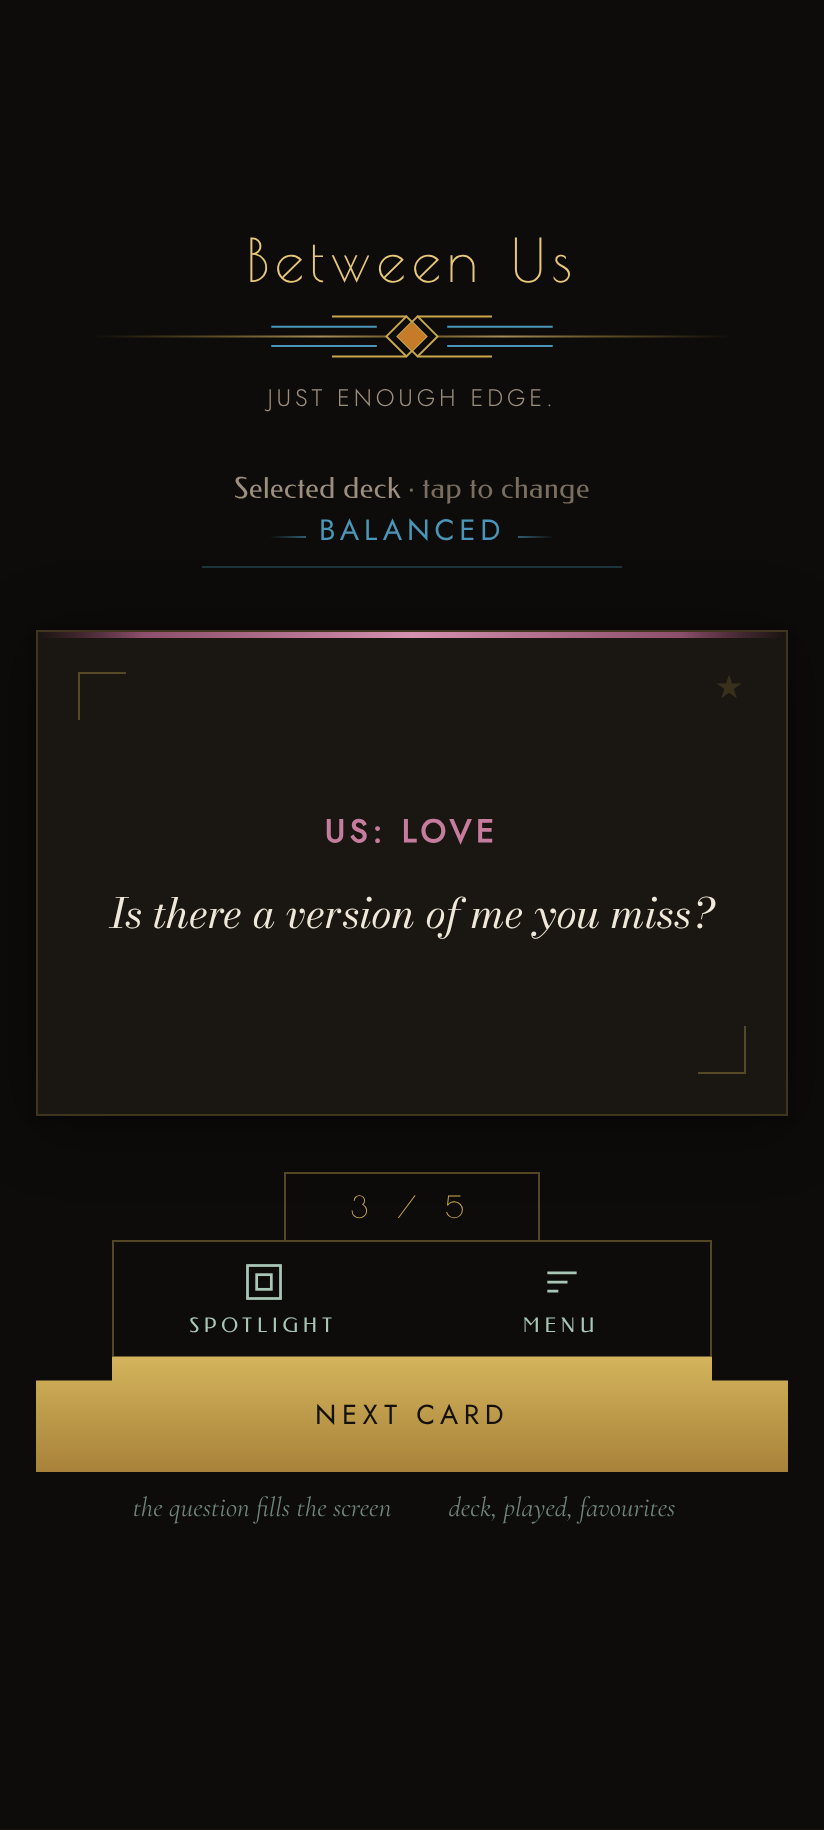
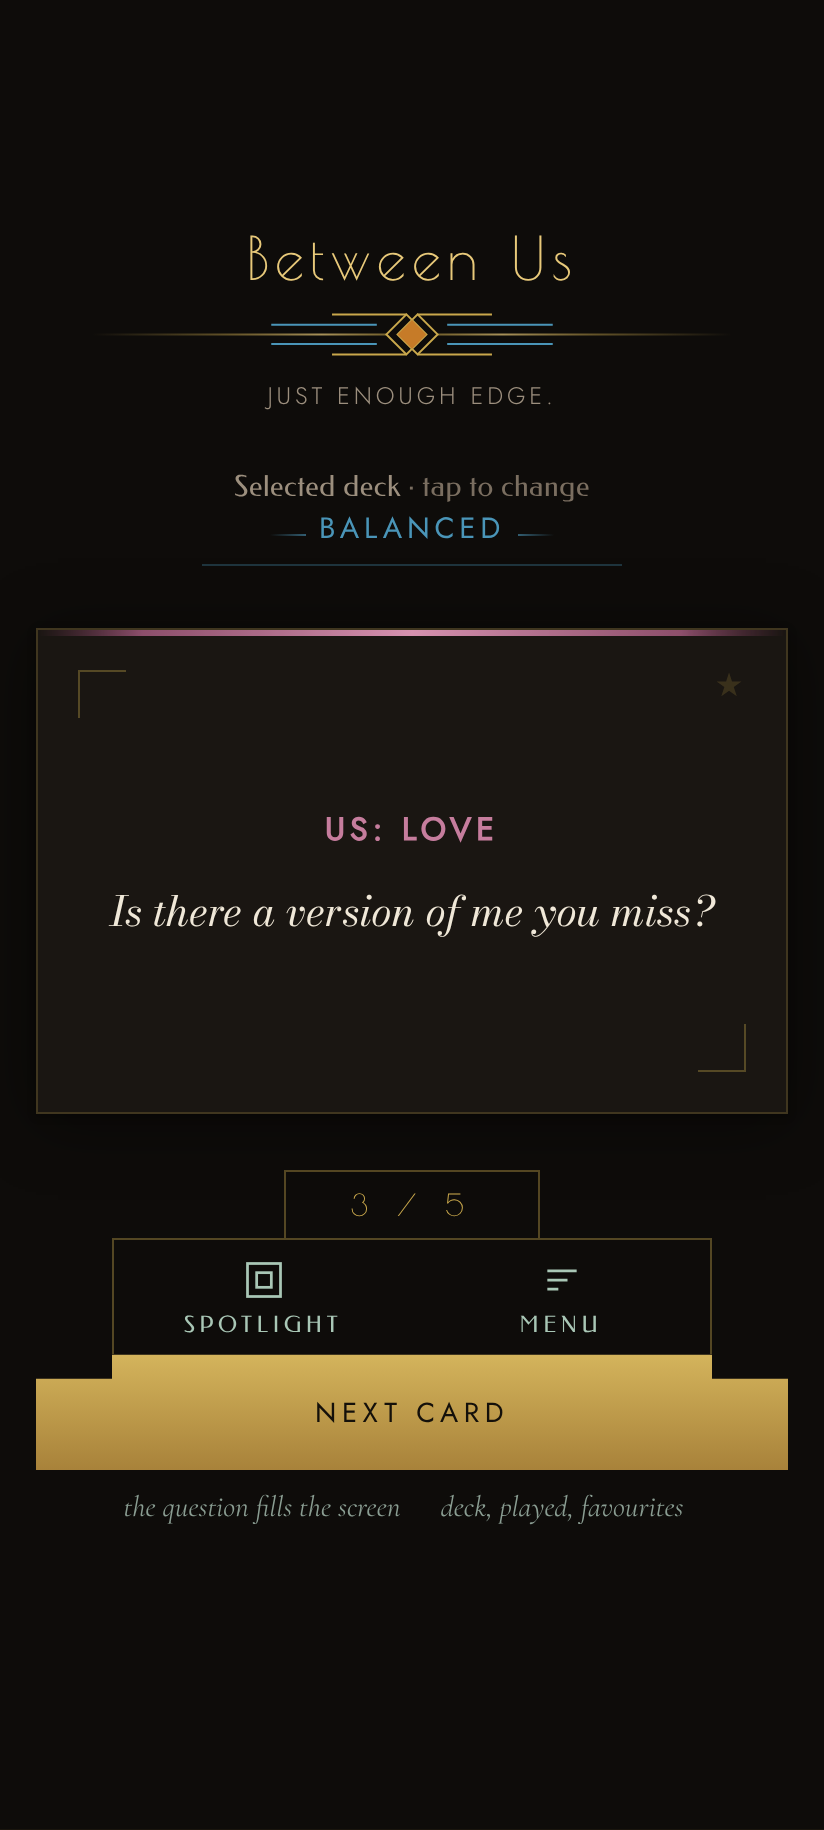
Keeper rule: always design with the design skills; round 6 polish and order (#113)
Claude-Session: https://claude.ai/code/session_01Jg2KKDJwWz1kYbkGce4qTK

diff --git a/.claude/keeper/agreements/2026-11-05-under-card-r6/index.html b/.claude/keeper/agreements/2026-11-05-under-card-r6/index.html
@@ -53,18 +53,18 @@ th{font:400 .72rem var(--caps);letter-spacing:.14em;text-transform:uppercase;col
 <h2>What each part does, per moment</h2>
 <div class="tbl"><table>
 <tr><th>Moment</th><th>Middle</th><th>Left</th><th>Right</th></tr>
-<tr><td>Start card</td><td>Draw, count 0 / 5</td><td>Ways to play: the one thing a first-timer needs before the first draw</td><td>Menu</td></tr>
-<tr><td>During a hand</td><td>Next card, count</td><td>Spotlight: shows the question to the table</td><td>Menu: the deck, played, favourites</td></tr>
-<tr><td>End of a hand</td><td>Turn the card, then hold for a new hand</td><td>Change: which questions come next</td><td>Save: keep this evening</td></tr>
+<tr><td>During a hand (most of the time)</td><td>Next Card, count</td><td>Spotlight: shows the question to the table</td><td>Menu: the deck, played, favourites</td></tr>
+<tr><td>Start card</td><td>Draw Card, count 0 / 5</td><td>Ways to play: the one thing a first-timer needs before the first draw</td><td>Menu</td></tr>
+<tr><td>End of a hand</td><td>Tap to flip card, then Hold to continue (the app's own words)</td><td>Change: which questions come next</td><td>Save: keep this evening</td></tr>
 </table></div>
 <p class="note">The same in all four, because the brief and your answers asked for it, not as a choice I'm making for you: there's no Back button (you said "remove it, might not miss it"; swiping back stays); Three and Twist are not in this area (where they go is a separate question below); the card stays a real card with nothing on it. Spotlight's own screen and the PC layout follow the design you choose. Tap a picture to open it full size.</p>
 
 <h2>Now</h2>
 <div class="strip">
-<figure><figcaption>Start card</figcaption><button class="fig" type="button"><img src="img/current-start.png" alt="Now, start card."></button></figure>
 <figure><figcaption>During a hand</figcaption><button class="fig" type="button"><img src="img/current-mid.png" alt="Now, during a hand."></button></figure>
-<figure><figcaption>End of a hand</figcaption><button class="fig" type="button"><img src="img/current-end.png" alt="Now, end of a hand."></button></figure>
 <figure><figcaption>First visit</figcaption><button class="fig" type="button"><img src="img/current-mid-hints.png" alt="Now, first visit."></button></figure>
+<figure><figcaption>Start card</figcaption><button class="fig" type="button"><img src="img/current-start.png" alt="Now, start card."></button></figure>
+<figure><figcaption>End of a hand</figcaption><button class="fig" type="button"><img src="img/current-end.png" alt="Now, end of a hand."></button></figure>
 </div>
 
 <h2>A · The mirror</h2>
@@ -76,10 +76,10 @@ th{font:400 .72rem var(--caps);letter-spacing:.14em;text-transform:uppercase;col
 <li>Left and right slots: at the ornament's two ends, where its lines come from.</li>
 </ul>
 <div class="strip">
-<figure><figcaption>Start card</figcaption><button class="fig" type="button"><img src="img/A-start.png" alt="A, the mirror, Start card."></button></figure>
 <figure><figcaption>During a hand</figcaption><button class="fig" type="button"><img src="img/A-mid.png" alt="A, the mirror, During a hand."></button></figure>
-<figure><figcaption>End of a hand</figcaption><button class="fig" type="button"><img src="img/A-end.png" alt="A, the mirror, End of a hand."></button></figure>
 <figure><figcaption>First visit</figcaption><button class="fig" type="button"><img src="img/A-mid-hints.png" alt="A, the mirror, First visit."></button></figure>
+<figure><figcaption>Start card</figcaption><button class="fig" type="button"><img src="img/A-start.png" alt="A, the mirror, Start card."></button></figure>
+<figure><figcaption>End of a hand</figcaption><button class="fig" type="button"><img src="img/A-end.png" alt="A, the mirror, End of a hand."></button></figure>
 </div>
 <p class="bad">The action is lettering, not a filled button. That's the most Art Deco choice, but the least obvious "tap here" for a first-timer. Its tap area has to be larger than it looks.</p>
 
@@ -92,10 +92,10 @@ th{font:400 .72rem var(--caps);letter-spacing:.14em;text-transform:uppercase;col
 <li>Left and right slots: outside the plate at its middle height, just the symbol and its word, with no frame of their own (no box around a single control).</li>
 </ul>
 <div class="strip">
-<figure><figcaption>Start card</figcaption><button class="fig" type="button"><img src="img/B-start.png" alt="B, the frame, Start card."></button></figure>
 <figure><figcaption>During a hand</figcaption><button class="fig" type="button"><img src="img/B-mid.png" alt="B, the frame, During a hand."></button></figure>
-<figure><figcaption>End of a hand</figcaption><button class="fig" type="button"><img src="img/B-end.png" alt="B, the frame, End of a hand."></button></figure>
 <figure><figcaption>First visit</figcaption><button class="fig" type="button"><img src="img/B-mid-hints.png" alt="B, the frame, First visit."></button></figure>
+<figure><figcaption>Start card</figcaption><button class="fig" type="button"><img src="img/B-start.png" alt="B, the frame, Start card."></button></figure>
+<figure><figcaption>End of a hand</figcaption><button class="fig" type="button"><img src="img/B-end.png" alt="B, the frame, End of a hand."></button></figure>
 </div>
 <p class="bad">The plate is the only framed object under the card, so it reads clearly as the button. But it's a box, and the start card above is also a framed box, so at the start of a hand the two frames echo each other strongly.</p>
 
@@ -107,10 +107,10 @@ th{font:400 .72rem var(--caps);letter-spacing:.14em;text-transform:uppercase;col
 <li>Bottom tier: the gold action, the one filled shape, with stepped shoulders where the middle tier meets it.</li>
 </ul>
 <div class="strip">
-<figure><figcaption>Start card</figcaption><button class="fig" type="button"><img src="img/C-start.png" alt="C, the steps, Start card."></button></figure>
 <figure><figcaption>During a hand</figcaption><button class="fig" type="button"><img src="img/C-mid.png" alt="C, the steps, During a hand."></button></figure>
-<figure><figcaption>End of a hand</figcaption><button class="fig" type="button"><img src="img/C-end.png" alt="C, the steps, End of a hand."></button></figure>
 <figure><figcaption>First visit</figcaption><button class="fig" type="button"><img src="img/C-mid-hints.png" alt="C, the steps, First visit."></button></figure>
+<figure><figcaption>Start card</figcaption><button class="fig" type="button"><img src="img/C-start.png" alt="C, the steps, Start card."></button></figure>
+<figure><figcaption>End of a hand</figcaption><button class="fig" type="button"><img src="img/C-end.png" alt="C, the steps, End of a hand."></button></figure>
 </div>
 <p class="bad">The heaviest of the four: the gold base keeps the weight the critique called too much, though its shape now belongs. The outlines of the tiers add more line than A or B.</p>
 
@@ -123,12 +123,24 @@ th{font:400 .72rem var(--caps);letter-spacing:.14em;text-transform:uppercase;col
 <li>End of a hand: Change and Save at the line's two ends.</li>
 </ul>
 <div class="strip">
-<figure><figcaption>Start card</figcaption><button class="fig" type="button"><img src="img/D-start.png" alt="D, turn it to show it, Start card."></button></figure>
 <figure><figcaption>During a hand</figcaption><button class="fig" type="button"><img src="img/D-mid.png" alt="D, turn it to show it, During a hand."></button></figure>
-<figure><figcaption>End of a hand</figcaption><button class="fig" type="button"><img src="img/D-end.png" alt="D, turn it to show it, End of a hand."></button></figure>
 <figure><figcaption>First visit</figcaption><button class="fig" type="button"><img src="img/D-mid-hints.png" alt="D, turn it to show it, First visit."></button></figure>
+<figure><figcaption>Start card</figcaption><button class="fig" type="button"><img src="img/D-start.png" alt="D, turn it to show it, Start card."></button></figure>
+<figure><figcaption>End of a hand</figcaption><button class="fig" type="button"><img src="img/D-end.png" alt="D, turn it to show it, End of a hand."></button></figure>
 </div>
 <p class="bad">Turning doesn't work on a phone lying flat on the table, or with screen rotation locked, and you use Spotlight on the table. It would need a second way in, which brings back a control. People also have to learn the turn; the first-visit hint carries it once.</p>
+
+
+<h2>Polish review (design skills)</h2>
+<p>Skills used this round: <b>design-critique</b> for the diagnosis, <b>design-system</b> to build from the app's own patterns (the logo's line geometry, the start card's two frame strengths, the gold and line tokens), and <b>emil-design-eng</b> for this polish review. Applied in the pictures above: side labels up from 9.9 to 11.2 px so they read at arm's length; hints a step lighter, because the old tone is hard to read on black in the dark.</p>
+<p>Carried into the build of whichever design you choose:</p>
+<ul>
+<li>Tap areas: every control at least 48 px tall and wide, larger than it looks. This matters most for lettering (A and D), where the letters are only about 24 px tall.</li>
+<li>Press feedback: the action shrinks slightly (to 97%) for about 150 ms when pressed, and its lines brighten from faint to full gold. Without that, lettering doesn't feel like a button.</li>
+<li>Changing moments: when the side slots change (Ways to play becomes Spotlight; Spotlight and Menu become Change and Save), they fade over about 200 ms instead of jumping.</li>
+<li>Reduced motion: only fades, no movement.</li>
+<li>D only: turning the phone needs a second way in (the phone flat on the table, or rotation locked).</li>
+</ul>
 
 <h2>Open: where Three and Twist go</h2>
 <p class="note">None of the four has them under the card. Before designing their new home I need your call on one question, in the message, not here.</p>

diff --git a/.claude/keeper/agreements/2026-11-05-under-card-r6/variants.js b/.claude/keeper/agreements/2026-11-05-under-card-r6/variants.js
@@ -23,12 +23,12 @@ const slots = s => s.state === 'start'
   : s.state === 'end'
   ? [{ g:G.change, w:'Change', h:'which questions come next' }, { g:G.save, w:'Save', h:'keep this evening' }]
   : [{ g:G.spot, w:'Spotlight', h:'the question fills the screen' }, { g:G.menu, w:'Menu', h:'deck, played, favourites' }];
-const action = s => ({ 'Draw Card':'Draw', 'Next Card':'Next card', 'End of hand':'End of hand', 'Tap to flip card':'Turn the card', 'Hold to continue':'Hold for a new hand' }[s.label] || s.label);
+const action = s => s.label;   // the app's own words, unchanged
 const count = s => `${s.cur} / ${s.total}`;
 const base = `
   .k6{width:100%;display:flex;flex-direction:column;align-items:center}
-  .k6 .lbl{font:400 .62rem 'Federo';letter-spacing:.24em;text-transform:uppercase;color:var(--celadon)}
-  .k6 .hint{font:italic 400 .86rem/1.1 'Cormorant Garamond';color:var(--row-hint);min-height:1.1em;text-align:center}
+  .k6 .lbl{font:400 .7rem 'Federo';letter-spacing:.2em;text-transform:uppercase;color:var(--celadon)}
+  .k6 .hint{font:italic 400 .92rem/1.15 'Cormorant Garamond';color:#8a9d92;min-height:1.1em;text-align:center}
   .k6 svg{width:22px;height:22px;color:var(--celadon)}
   .k6 .num{font:400 15px 'Poiret One';letter-spacing:.3em;color:var(--gold);font-weight:400}`;
 const V = {};

diff --git a/.claude/keeper/lessons.md b/.claude/keeper/lessons.md
@@ -115,3 +115,4 @@ Format:
 - **2026-11-05** — Said (after round 4): "don't only give me one gold bar options. That's lazy as well. Gold bar is an option. Not the way." / I did: took a direction the owner had only called promising ("the gold bar has something") and made a whole round of variations on it. / Meant: liking a direction is not choosing it; until the owner picks, every round keeps several genuinely different directions. / Next time: narrow only when the owner says "this one"; otherwise carry the liked direction as one option among others.
 - **2026-11-05** — Said: "I have not said I like Twist inside the card. You just did that. I have not decided anything… no back directly under the card… Maybe you should check not guess." / I did: made my own choices in round 3 (Twist on the card, Back as an undo under the card, the line on the card's edge, Menu placements), carried them into every later option, and in round 5 called them "settled". / Meant: a choice the Keeper makes inside a mockup is a proposal; it becomes fixed only when the owner says so, and a round never presents it as agreed. / Next time: before each round, list what is actually decided (with the owner's words) and what is open; ask about the open things that shape the round instead of fixing them myself.
 - **2026-11-05** — Under-the-card rounds 1–5, the owner's verdict on round 5: the ribbon "pull… what does that have to do with the style?"; V "the same, just a bit different, still randomly placed elements"; U "menu? where?"; "Randomly throwing things everywhere does not make it a design"; "no interaction elements on the card"; the line under the card "I'm not married to it, I'm already bored by it"; round 4 not worth comments (variants, not designs); "the hints and text make no sense… AI slop". / I did: five rounds in one evening, each built fast on my own unasked choices, filler hints copied between options, elements placed where there was room. / Meant: fewer, considered designs; each one a concept with a reason for every element and every word. / Next time: the rules now in SKILL.md (designs not variations, nothing agreed without explicit words, every place has a reason, card is for reading, words must make sense, look-think-ask-design). Slow down: one considered round beats five fast ones.
+- **2026-11-05** — Said: "Don't use the Turn the card as default… use the normal card as default." and "You have two design skills, use those… make a rule to ALWAYS use a design skill to design." / I did: put the start card and end of hand first in each strip, renamed the app's own button words ("Draw", "Turn the card") without asking, and designed round 6 mostly on my own judgement after only opening the design skills. / Meant: the everyday screen leads; existing wording is never changed unasked; the design skills are followed, not just opened. / Next time: the normal card is the first picture of every design; app wording stays as it is unless the round is about wording; the design-skill rule is in SKILL.md and the per-message reminder.

diff --git a/.claude/skills/keeper/SKILL.md b/.claude/skills/keeper/SKILL.md
@@ -171,6 +171,13 @@ letter for the owner to confirm.
   - **Words on screen must make sense** (owner, 2026-11-05, on hints in rounds 1–5: "the hints
     and text make no sense… randomly there"). Every hint and label is written for that option:
     it says what that control does there, in plain words, or it is left out. No copied filler.
+  - **Always design with the design skills** (owner, 2026-11-05: "please make a rule to ALWAYS use a
+    design skill to design"). Every design or looks round, and every builder brief for one, loads
+    and follows the design skills, together with the Keeper's own judgement: `design:design-critique`
+    to diagnose the current state, `design:design-system` (extend) to build from the app's existing
+    patterns and tokens, and `emil-design-eng` to review the options' polish before the owner sees
+    them. Say in the round which skills were used and what each changed. Opening a skill and then
+    designing without following it does not count.
   - **Order of work: look, think, ask, then design** (owner, 2026-11-05: "First look, then think,
     then ask, then design something USEFUL"). Look at the live screen and the code; think about
     what the screen must do; ask the owner what only they know; only then make options.
